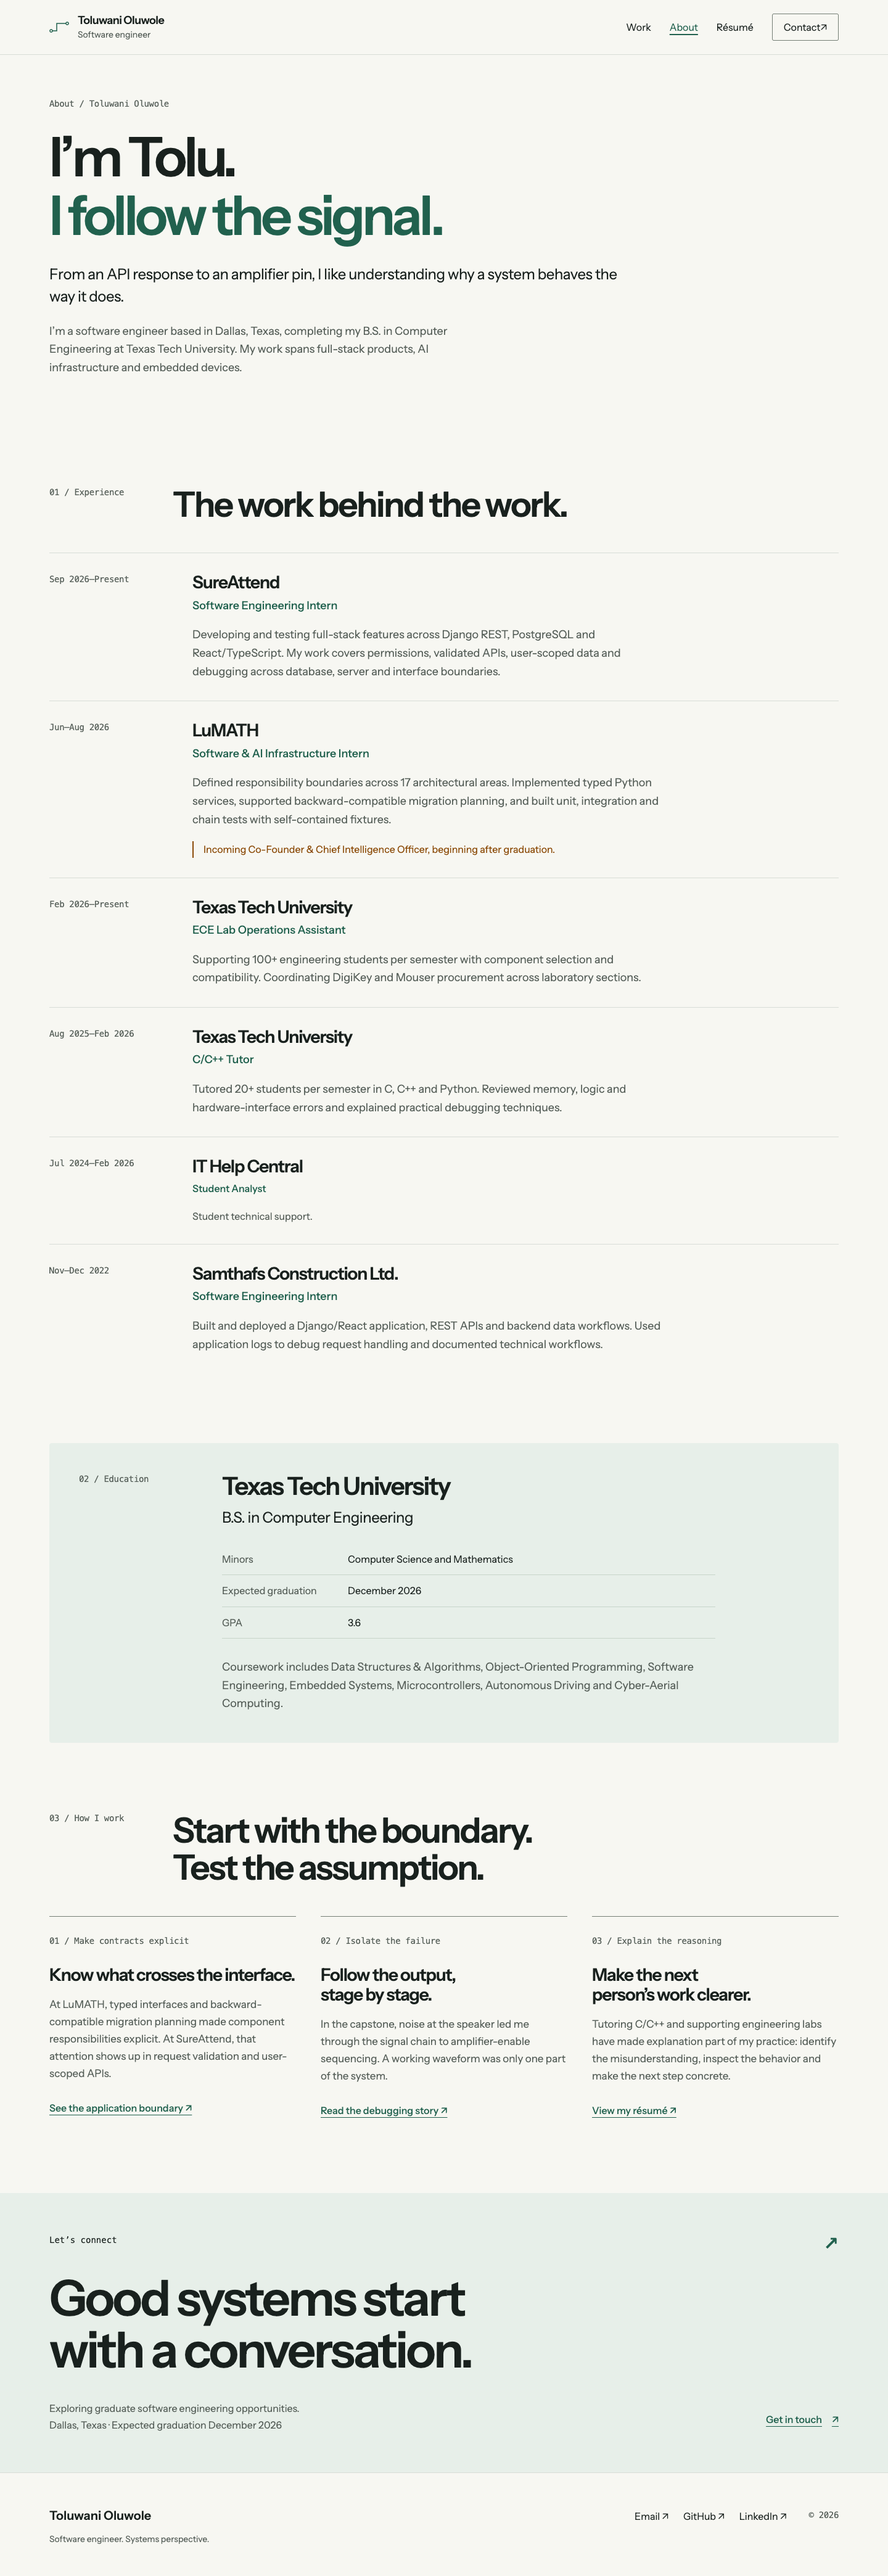
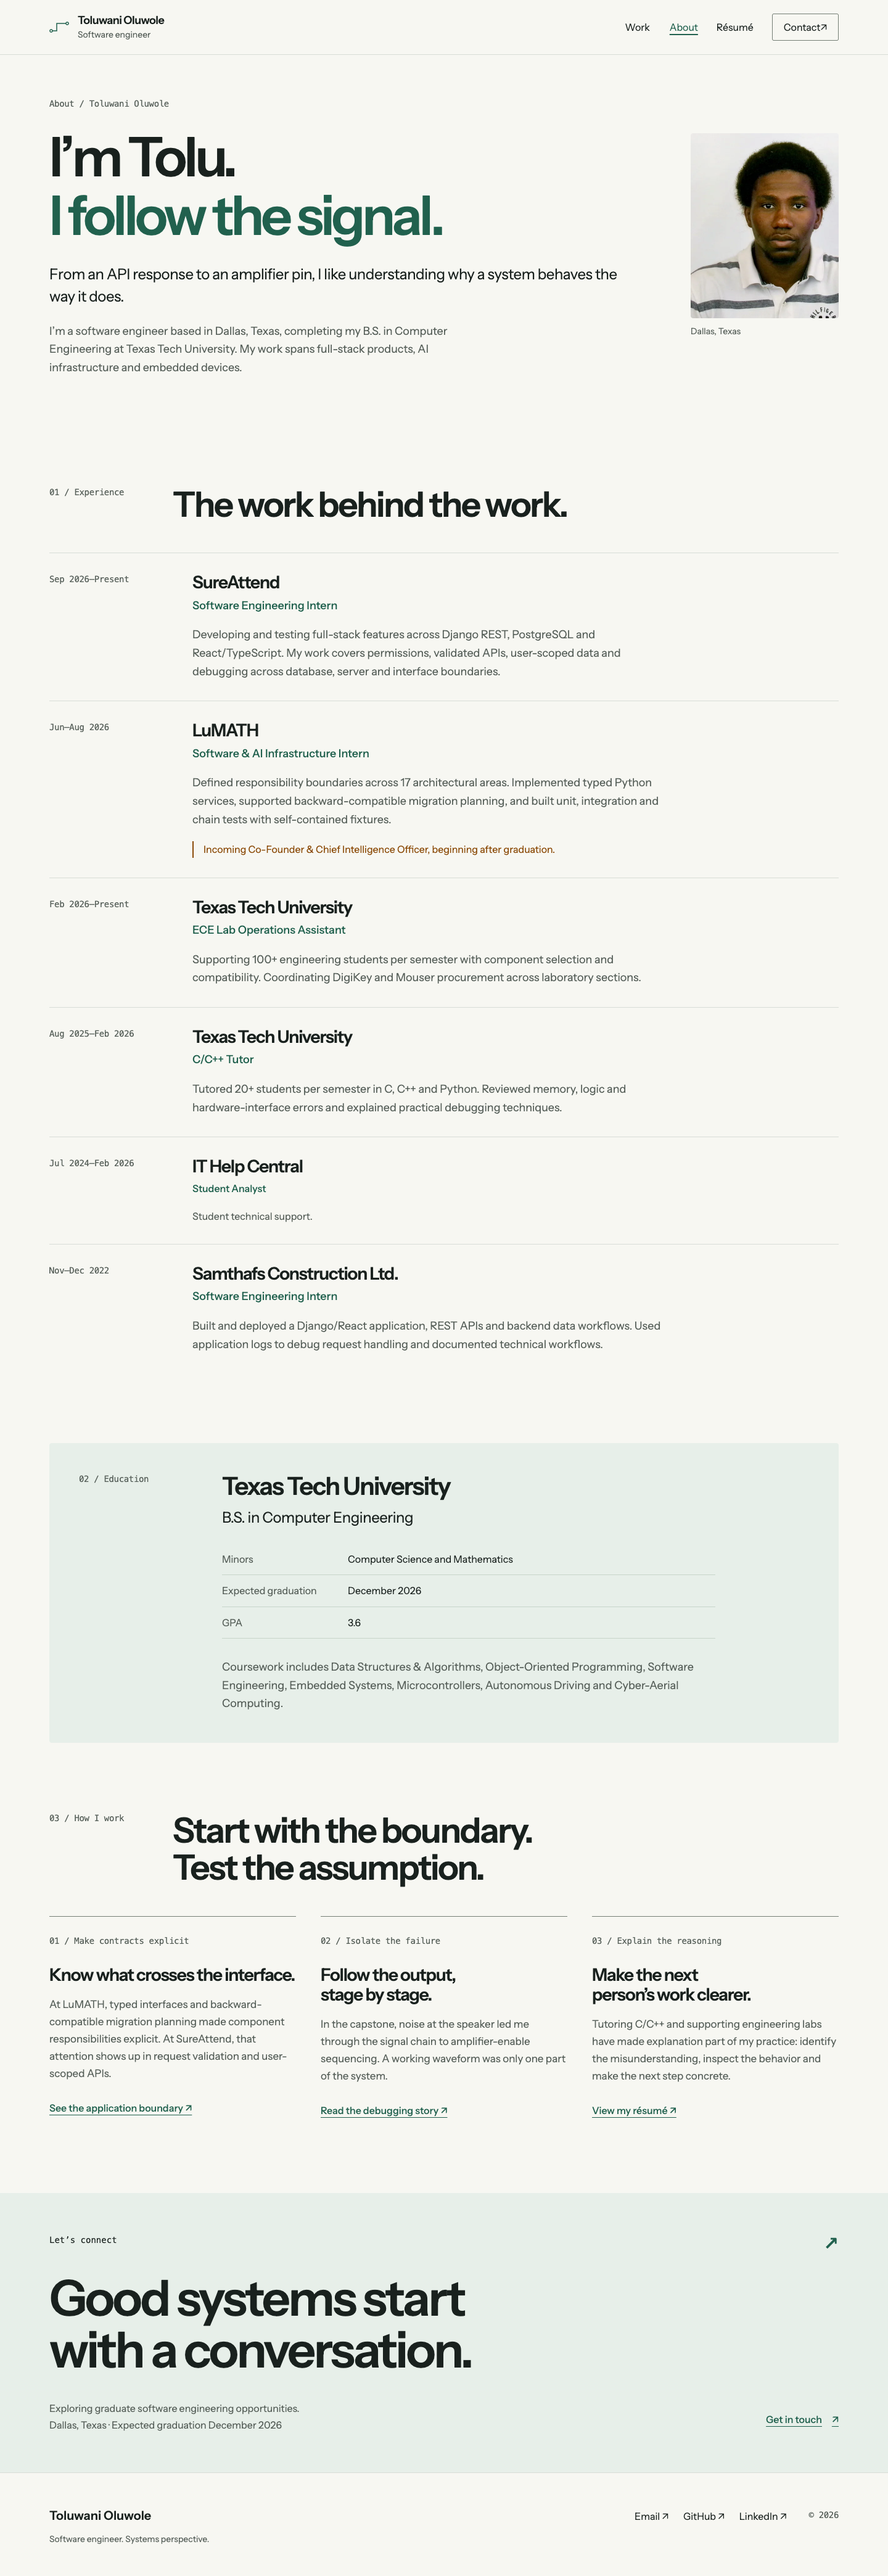
Add supplied About headshot and refresh verification

Changed region(s): [[0.75, 0.0311, 0.9688, 0.1245]]

diff --git a/portfolio-design-spec.md b/portfolio-design-spec.md
@@ -17,6 +17,7 @@ This specification defines the authorized Astro + TypeScript static rebuild. The
 | E | [Embedded résumé](<newestresumes/NewFnlEmbedded_SureAttend_v2 (1).pdf>) | All text on its one page, plus embedded hyperlinks |
 | S | [Software résumé](<newestresumes/NewFnlSwe_SureAttend_v2 (1).pdf>) | All text on its one page, plus embedded hyperlinks |
 | H | [Hybrid résumé](<newestresumes/Newfnlhybrid_SureAttend_v2 (1).pdf>) | All text on its one page, plus embedded hyperlinks |
+| P | [Supplied headshot](newestresumes/IMG_4429.JPG) | JPEG identified by file type; source 1800×1800, optimized to 480×600 WebP for About |
 | C | [Existing portfolio](toluwani-oluwole-portfolio/) | All application components, entry points, styles, configuration, README, dependency manifests, and asset inventory |
 | O-PDF | [Existing downloadable résumé](toluwani-oluwole-portfolio/public/Resume.pdf) | Entire one-page document |
 | O-DOCX | [Existing Word résumé](<toluwani-oluwole-portfolio/public/Main Resume.docx>) | Entire document text, footer, and external hyperlink relationships |
@@ -321,7 +322,7 @@ Use whitespace/rules, nearly square media fields (4–8px radius), no resting sh
 
 ### 5.5 Images and media
 
-About portrait: locate image by file type in newestresumes; optimize to WebP/AVIF, reserve 240×300 (4:5) desktop, stack on mobile; useful alt text. Initial inventory found no image file, so request the actual file and do not fabricate a portrait.
+About portrait: locate image by file type in newestresumes; optimize to WebP/AVIF, reserve 240×300 (4:5) desktop, stack on mobile; useful alt text. Supplied image: `newestresumes/IMG_4429.JPG`, identified as JPEG by file type; use its optimized 480×600 WebP at 240×300 CSS pixels.
 
 Hardware has no photo/video at build time: use accurate block diagrams, documented specs and test narratives. RecConnect has no screenshots and remains an internal-platform description. AI generator has no sample output: capabilities plus workflow only.
 
@@ -378,7 +379,7 @@ Photo/hotspot, audio and video figures appear only for supplied data. In this bu
 
 ### 6.5 About
 
-Intro and engineering context beside the supplied 240×300 headshot on desktop, stacked on mobile. If the requested image is still absent, render the introduction without a portrait block and record the missing input in the handoff. Follow with the six-role confirmed chronology (IT Help Central compact here only), education/minors/GPA, and concrete working-approach examples linked to project evidence. Do not publish unconfirmed mentorship outcomes or honors.
+Intro and engineering context beside the supplied 240×300 headshot on desktop, stacked on mobile. The supplied JPEG is included as the About portrait, with alt text. Follow with the six-role confirmed chronology (IT Help Central compact here only), education/minors/GPA, and concrete working-approach examples linked to project evidence. Do not publish unconfirmed mentorship outcomes or honors.
 
 ### 6.6 Résumé
 
@@ -569,7 +570,7 @@ Remaining unknowns are handled by omission or bounded copy: no Samthafs current-
 
 ### 10.4 Assets and delivery risks
 
-The required About headshot was absent from the initial file inventory. Ask for the actual image, continue independent work, and report it if still absent. Never use a generated face, stock portrait or initials avatar. The three newest PDFs remain unedited even where their claims disagree with confirmed facts.
+The supplied About headshot (`newestresumes/IMG_4429.JPG`) is now included as an optimized 4:5 WebP. Never substitute a generated face, stock portrait or initials avatar. The three newest PDFs remain unedited even where their claims disagree with confirmed facts.
 
 Optional project photo/audio/video/repo/demo fields render only when populated. Confidentiality, stale “Present” dates, unsupported claims and mistaking diagrams for original artifacts remain risks. Caption diagrams as architecture explanations; no fabricated proof. Check external links within environment limits and record actual responses, without claiming more verification than performed.
 
@@ -613,4 +614,4 @@ Run the appropriate build/type/content checks. Exercise keyboard navigation, dis
 
 Record actual build/type/content/link checks, gzip/transfer measurements, any unavailable browser checks, inferred content and résumé discrepancies. Document Render settings and old-link behavior. Supply the local branch/copy and instructions for the user to commit/push. Do not publish, push, change DNS, or touch the existing Render service.
 
-**Exit:** build and review artifacts are local and ready for the user; no deployment is claimed. Missing headshot, environment access failures and unverified live/browser behavior remain explicit.
+**Exit:** build and review artifacts are local and ready for the user; no deployment is claimed. Environment access failures and unverified live/browser behavior remain explicit.

diff --git a/BUILD-REPORT.md b/BUILD-REPORT.md
@@ -10,7 +10,7 @@ Work filtering supports shared query URLs and browser Back; all ten cards remain
 
 Three newest PDFs were copied unchanged under clean names. `/Resume.pdf` is byte-identical to the software résumé. Legacy Home anchors remain.
 
-**Missing input:** no headshot image exists in `newestresumes/`; file-type inspection found only three PDFs and the master Markdown. About omits the portrait block. The 240×300 layout and 480×600 WebP preparation are implemented; adding the actual image to the source folder and rebuilding will include it. This is the only requested asset not delivered.
+**About portrait included:** `newestresumes/IMG_4429.JPG` is optimized to a 22,452-byte, 480×600 WebP, displayed at 240×300 with alt text. It stacks below the introduction on mobile. The follow-up image verification is recorded in [headshot QA](docs/headshot-qa.json); the original JPEG is unchanged.
 
 ## Measured verification
 
@@ -27,7 +27,7 @@ Three newest PDFs were copied unchanged under clean names. `/Resume.pdf` is byte
 | JavaScript | 1,391 bytes gzip (1.36 KiB) per first load |
 | CSS | 6,789 bytes gzip (6.63 KiB) |
 | Largest HTML | 4,390 bytes gzip (4.29 KiB) |
-| Conservative initial asset budget | At most 45,292 bytes (44.23 KiB), including font/favicon/touch icon; PDF/social downloads excluded |
+| Conservative initial asset budget | At most 66,629 bytes (65.07 KiB), including About portrait/font/favicon/touch icon; PDF/social downloads excluded |
 | Lighthouse observed transfer | Home 43,899 bytes; capstone 42,754 bytes |
 | Mobile Lighthouse, three sequential Home runs | 100 / 100 / 100 performance; median LCP 0.767s, CLS 0, TBT 0ms |
 | Mobile Lighthouse, capstone | 100 performance, LCP 0.761s, CLS 0, TBT 6ms |
@@ -87,4 +87,4 @@ The old Word document is not a copied résumé PDF and is not republished. Old/s
 
 Use the existing **Render Static Site**, build **`npm ci && npm run build`**, publish **`dist`**. No server adapter/start command. [RENDER.md](RENDER.md) documents the physical `/Resume.pdf` alias, optional 301 rules, old-anchor behavior and removing an obsolete SPA rewrite. Fragments never reach Render; old `/#about`, `/#skills`, `/#projects`, `/#contact` work via retained HTML IDs.
 
-The source is committed locally on `build/signal-path-portfolio`. Review and push this branch from this copy yourself when ready. Supply the missing headshot and update the source PDFs if you want their contents corrected before launch. Keep `node_modules`, `dist`, `.astro` and environment files out of Git. The local preview used for QA was stopped after verification.
+The source is committed locally on `build/signal-path-portfolio`. Review and push this branch from this copy yourself when ready. Update the source PDFs if you want their contents corrected before launch. Keep `node_modules`, `dist`, `.astro` and environment files out of Git. The local preview used for QA was stopped after verification.

diff --git a/RENDER.md b/RENDER.md
@@ -47,4 +47,4 @@ References: [Render Astro static settings](https://render.com/docs/deploy-astro)
 
 Review this copy's `build/signal-path-portfolio` branch, commit the source and `package-lock.json`, and push it yourself. Exclude `node_modules`, `dist`, `.astro` and local environment files. The original checkout at `../toluwani-oluwole-portfolio` remains unchanged. This copy retains the same `origin` URL and repository history; use the copy as the checkout from which you commit/push. The completed local source is committed on the build branch for your review. No push has been made.
 
-Before publishing, correct the source résumé PDFs if desired and add the actual headshot. See `BUILD-REPORT.md` for verification and exact remaining limitations. To change the domain, update `astro.config.mjs`, `src/pages/sitemap.xml.ts` and `public/robots.txt` together.
+Before publishing, correct the source résumé PDFs if desired. The supplied headshot is included. See `BUILD-REPORT.md` for verification and exact remaining limitations. To change the domain, update `astro.config.mjs`, `src/pages/sitemap.xml.ts` and `public/robots.txt` together.
